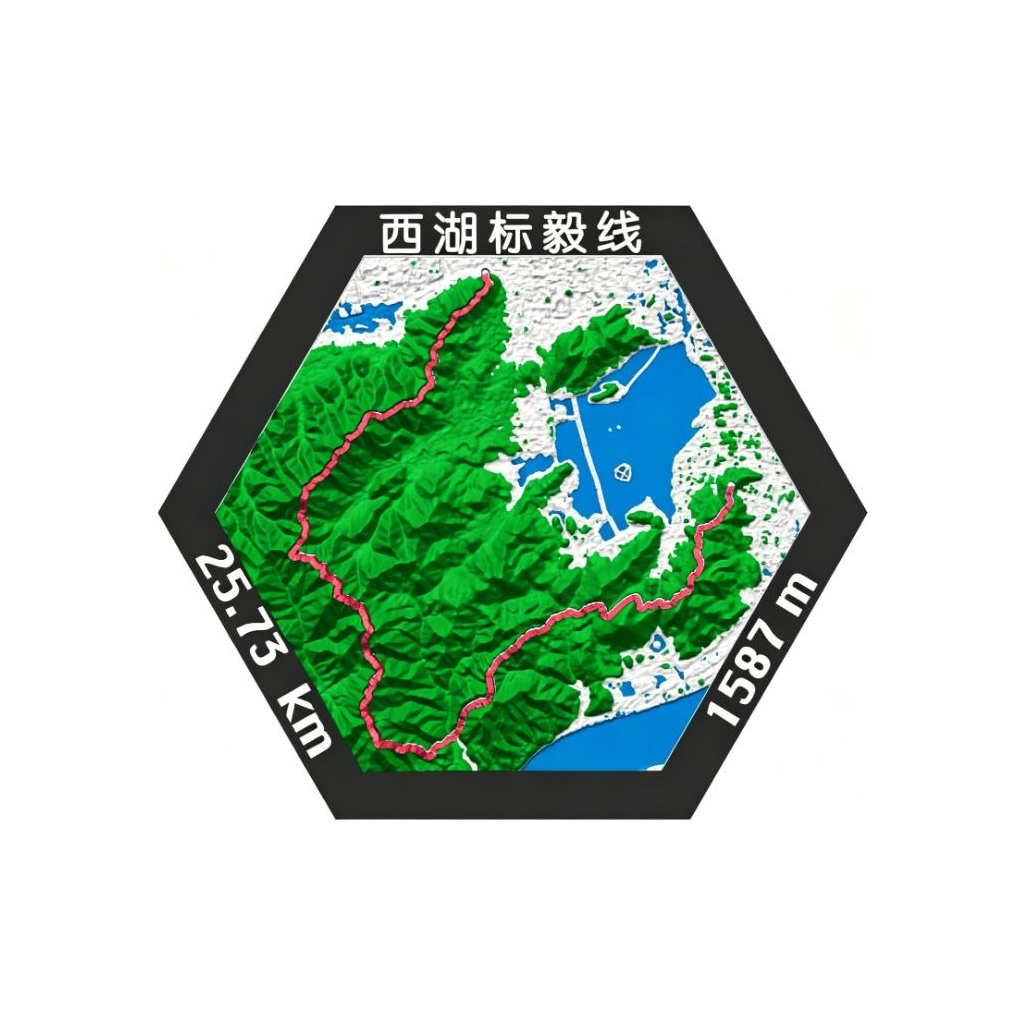
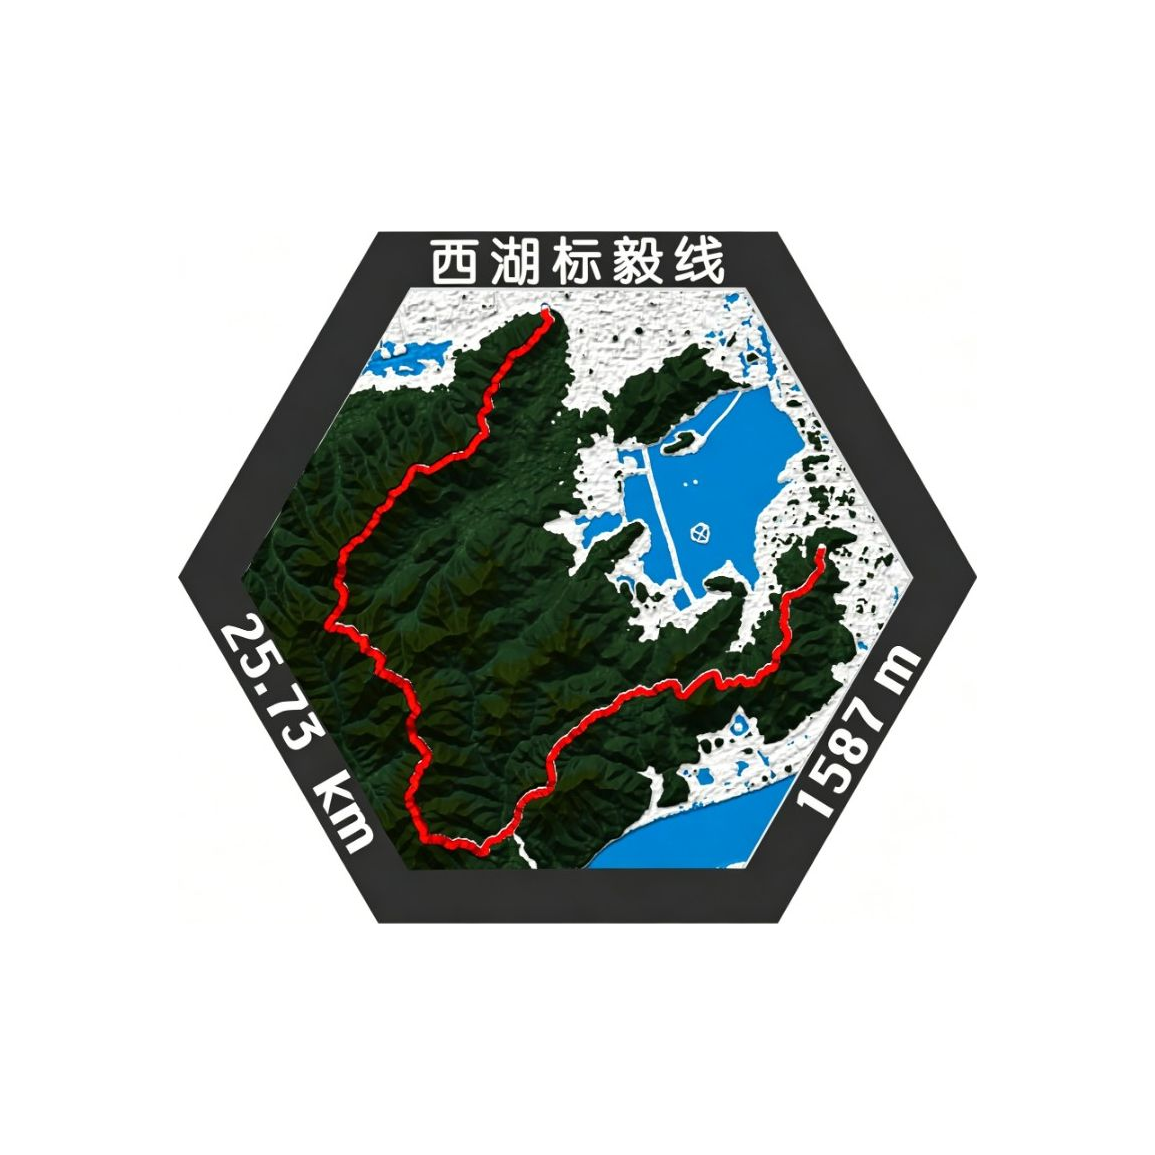
feat: 模型封面

Changed region(s): [[0.1873, 0.1873, 0.7805, 0.7805], [0.6244, 0.718, 0.6556, 0.7493]]

diff --git a/frontend/src/config/imprint-types/registry.ts b/frontend/src/config/imprint-types/registry.ts
@@ -12,6 +12,11 @@ export const IMPRINT_TYPE_REGISTRY: readonly ImprintTypeDefinition[] = [
     label: '武功山',
     coverSrc: '/imprint-types/武功山.png',
   },
+  {
+    id: 'xihu-aixin',
+    label: '西湖爱心线',
+    coverSrc: '/imprint-types/西湖爱心线.png',
+  },
 ] as const
 
 const byId = new Map<string, ImprintTypeDefinition>(

diff --git a/frontend/src/config/imprint-types/types.ts b/frontend/src/config/imprint-types/types.ts
@@ -1,5 +1,5 @@
 /** 印记类型 id（与后端 typeId、静态资源文件名解耦，便于扩展） */
-export type ImprintTypeId = 'xihu-biaoyi' | 'wugongshan'
+export type ImprintTypeId = 'xihu-biaoyi' | 'wugongshan' | 'xihu-aixin'
 
 export interface ImprintTypeDefinition {
   id: ImprintTypeId

diff --git a/backend/src/imprint-types/registry.ts b/backend/src/imprint-types/registry.ts
@@ -2,6 +2,7 @@
 const TYPE_COVER_BY_ID: Record<string, string> = {
   'xihu-biaoyi': '/imprint-types/西湖标毅线.png',
   wugongshan: '/imprint-types/武功山.png',
+  'xihu-aixin': '/imprint-types/西湖爱心线.png',
 }
 
 export const KNOWN_IMPRINT_TYPE_IDS = Object.keys(TYPE_COVER_BY_ID)